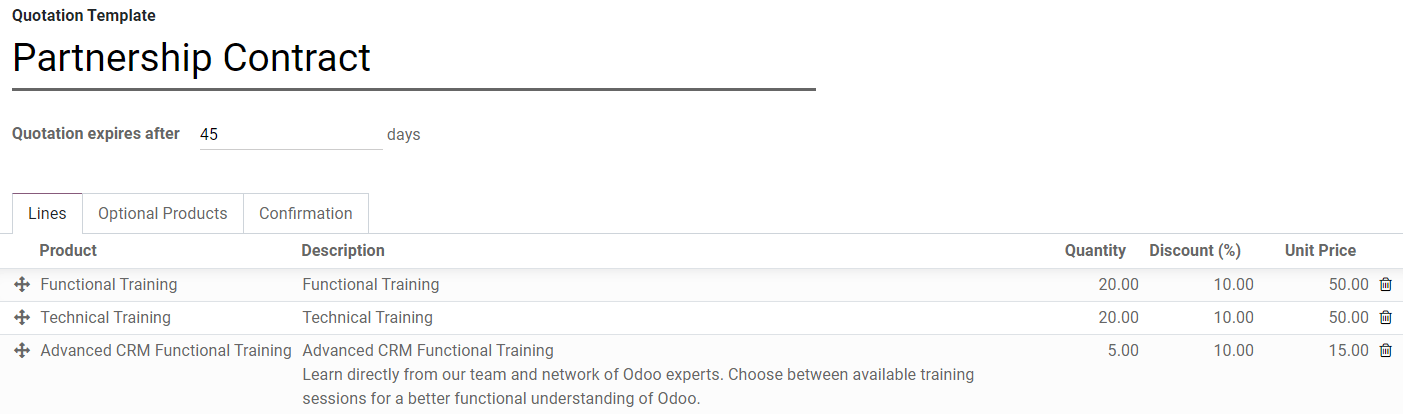
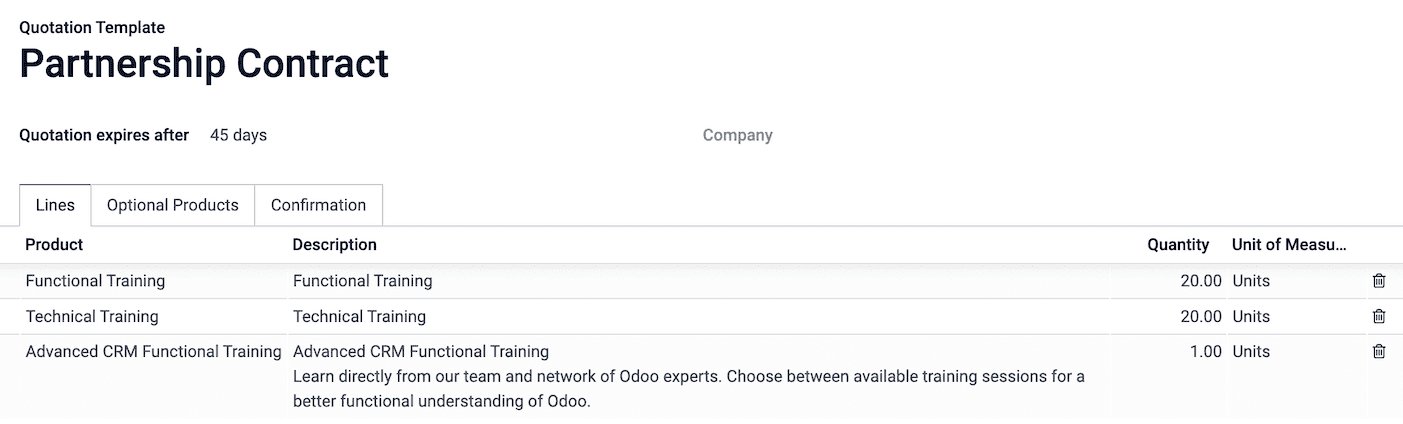
[IMP] sale_management: remove price_unit from quotation template
Companion of [1].

[1]: https://github.com/odoo/odoo/pull/47186

opw-2824263

closes odoo/documentation#1977

X-original-commit: f6bf1183db37c9293519a3c155fc0793bc56d44b

diff --git a/content/applications/sales/sales/send_quotations/quote_template.rst b/content/applications/sales/sales/send_quotations/quote_template.rst
@@ -38,10 +38,6 @@ products and quantities as well as the expiration time of the quotation.
    :class: img-thumbnail
    :alt: Create a new quotation template on Odoo Sales
 
-.. note::
-   On each template, you can also specify discounts if the option is activated in the **Sales**
-   settings.
-
 Design your template
 ====================
 
